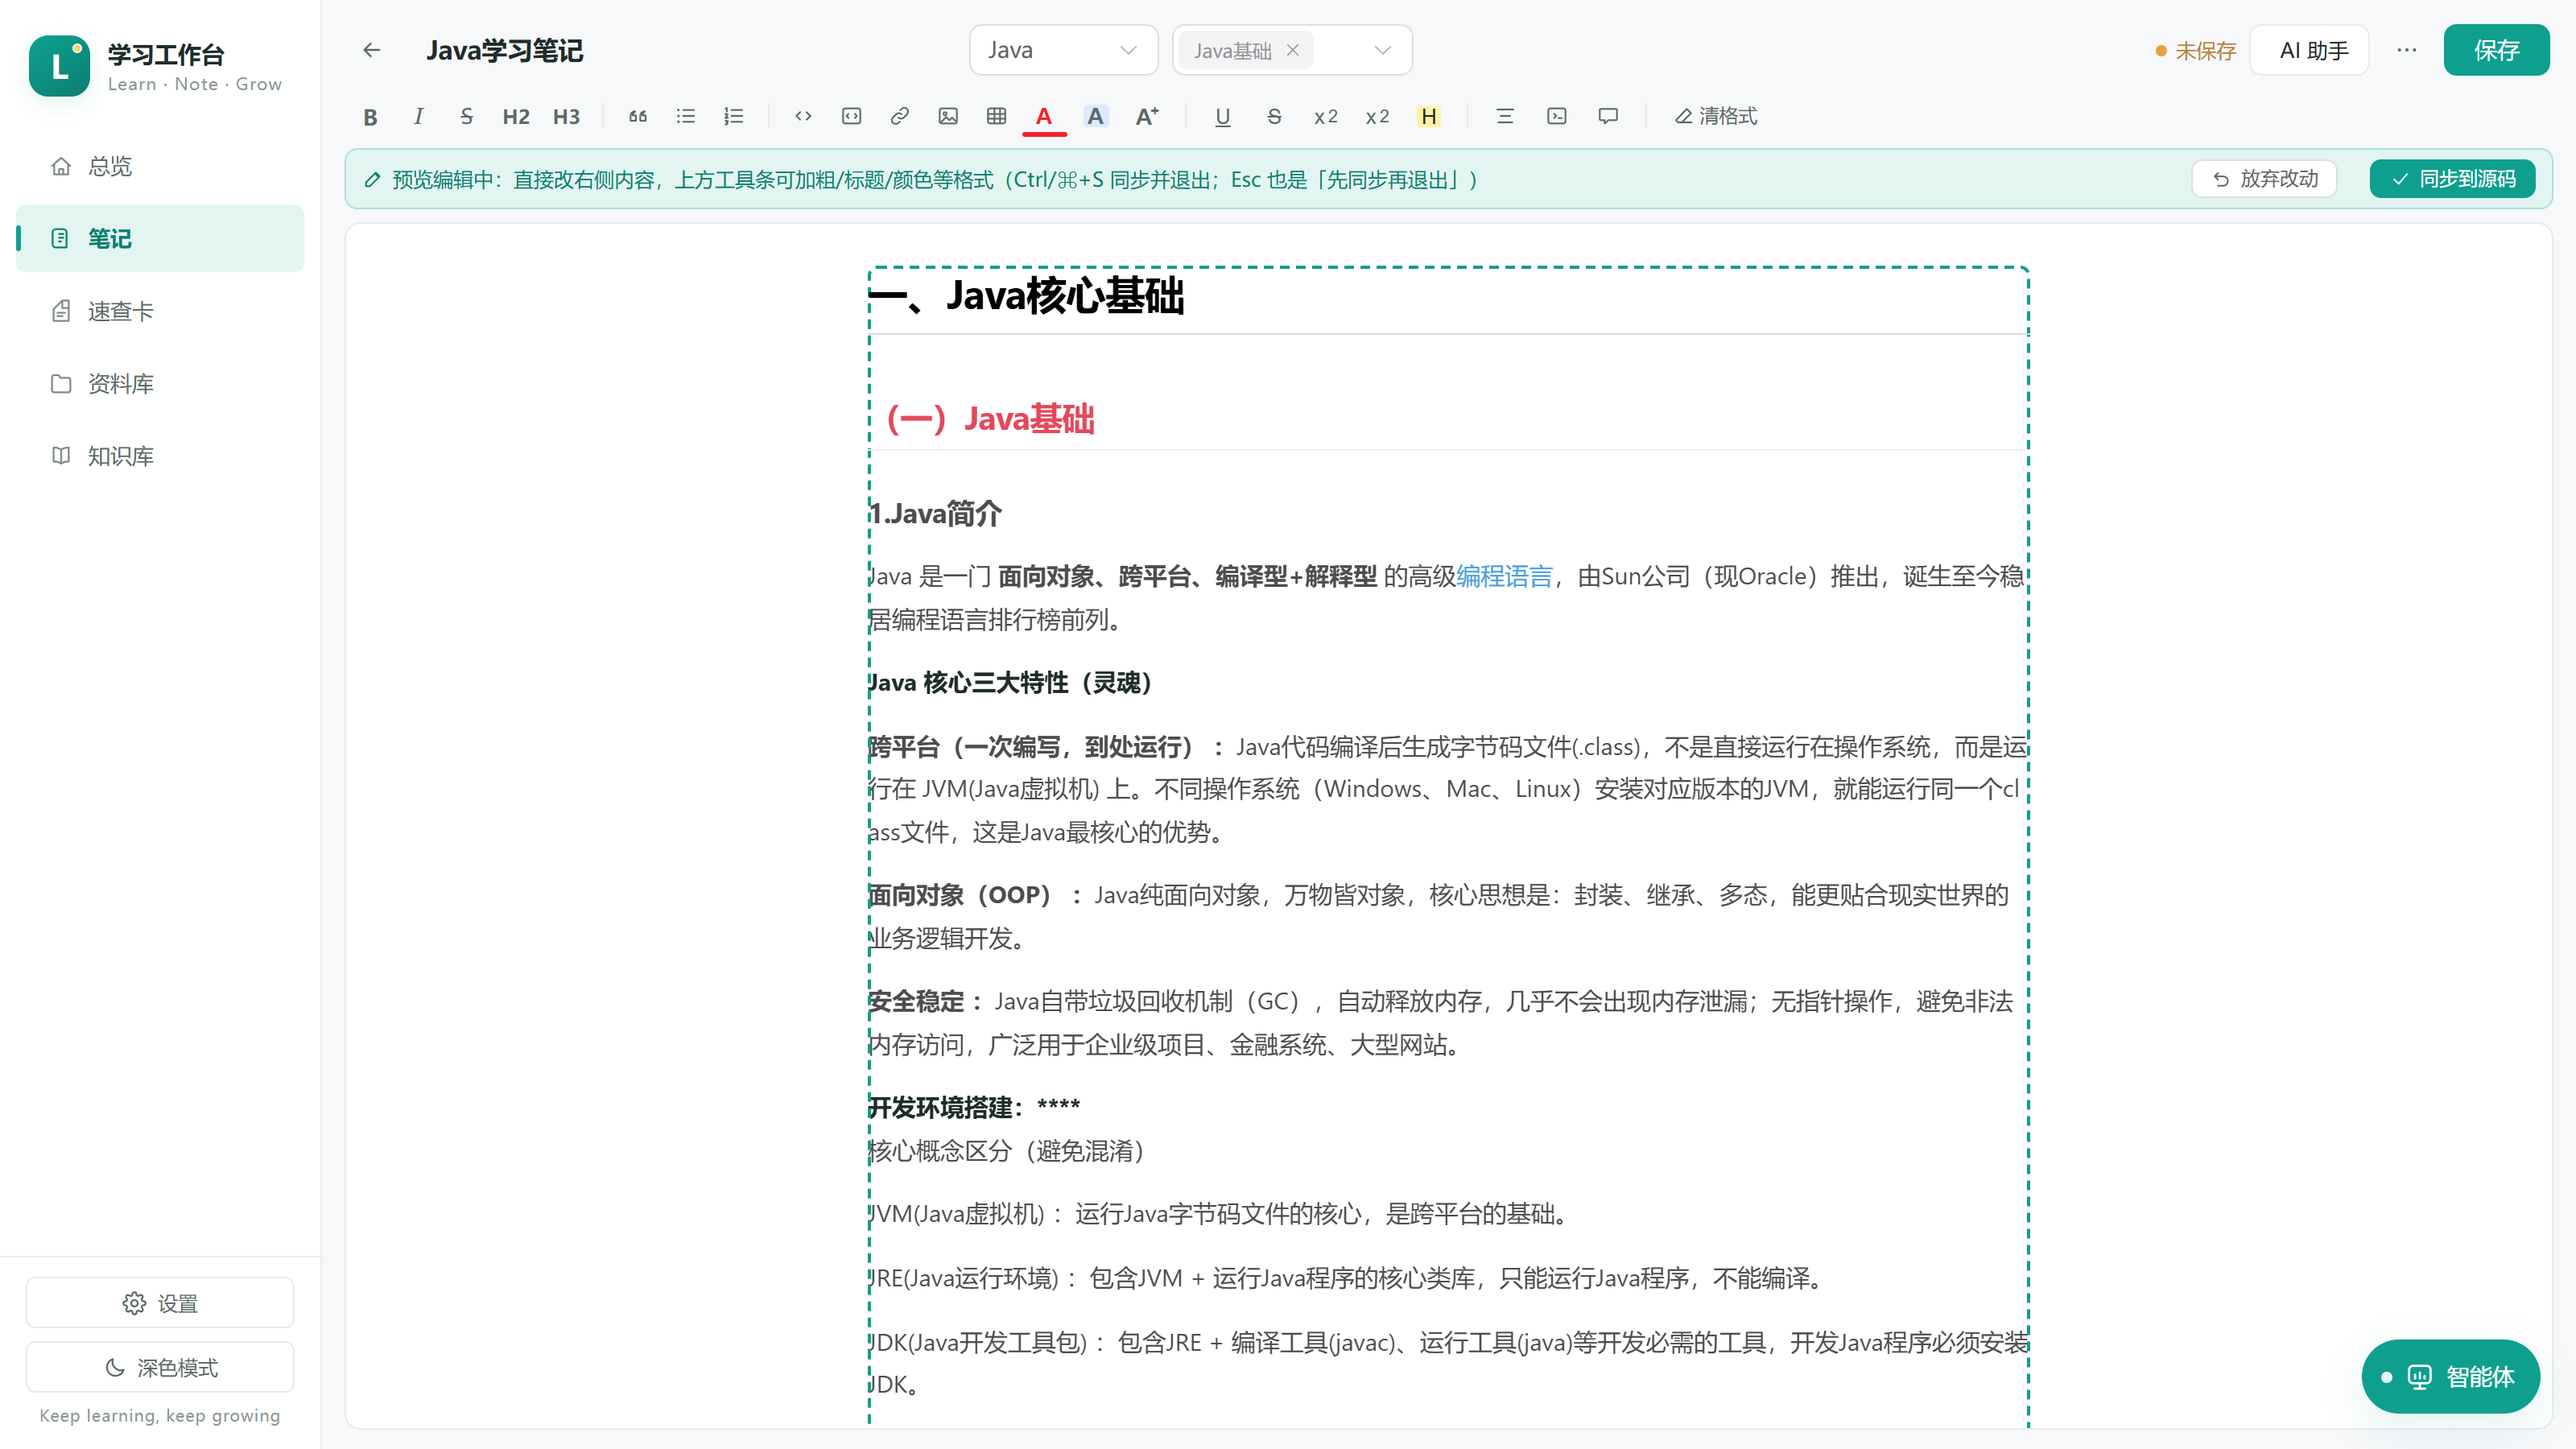
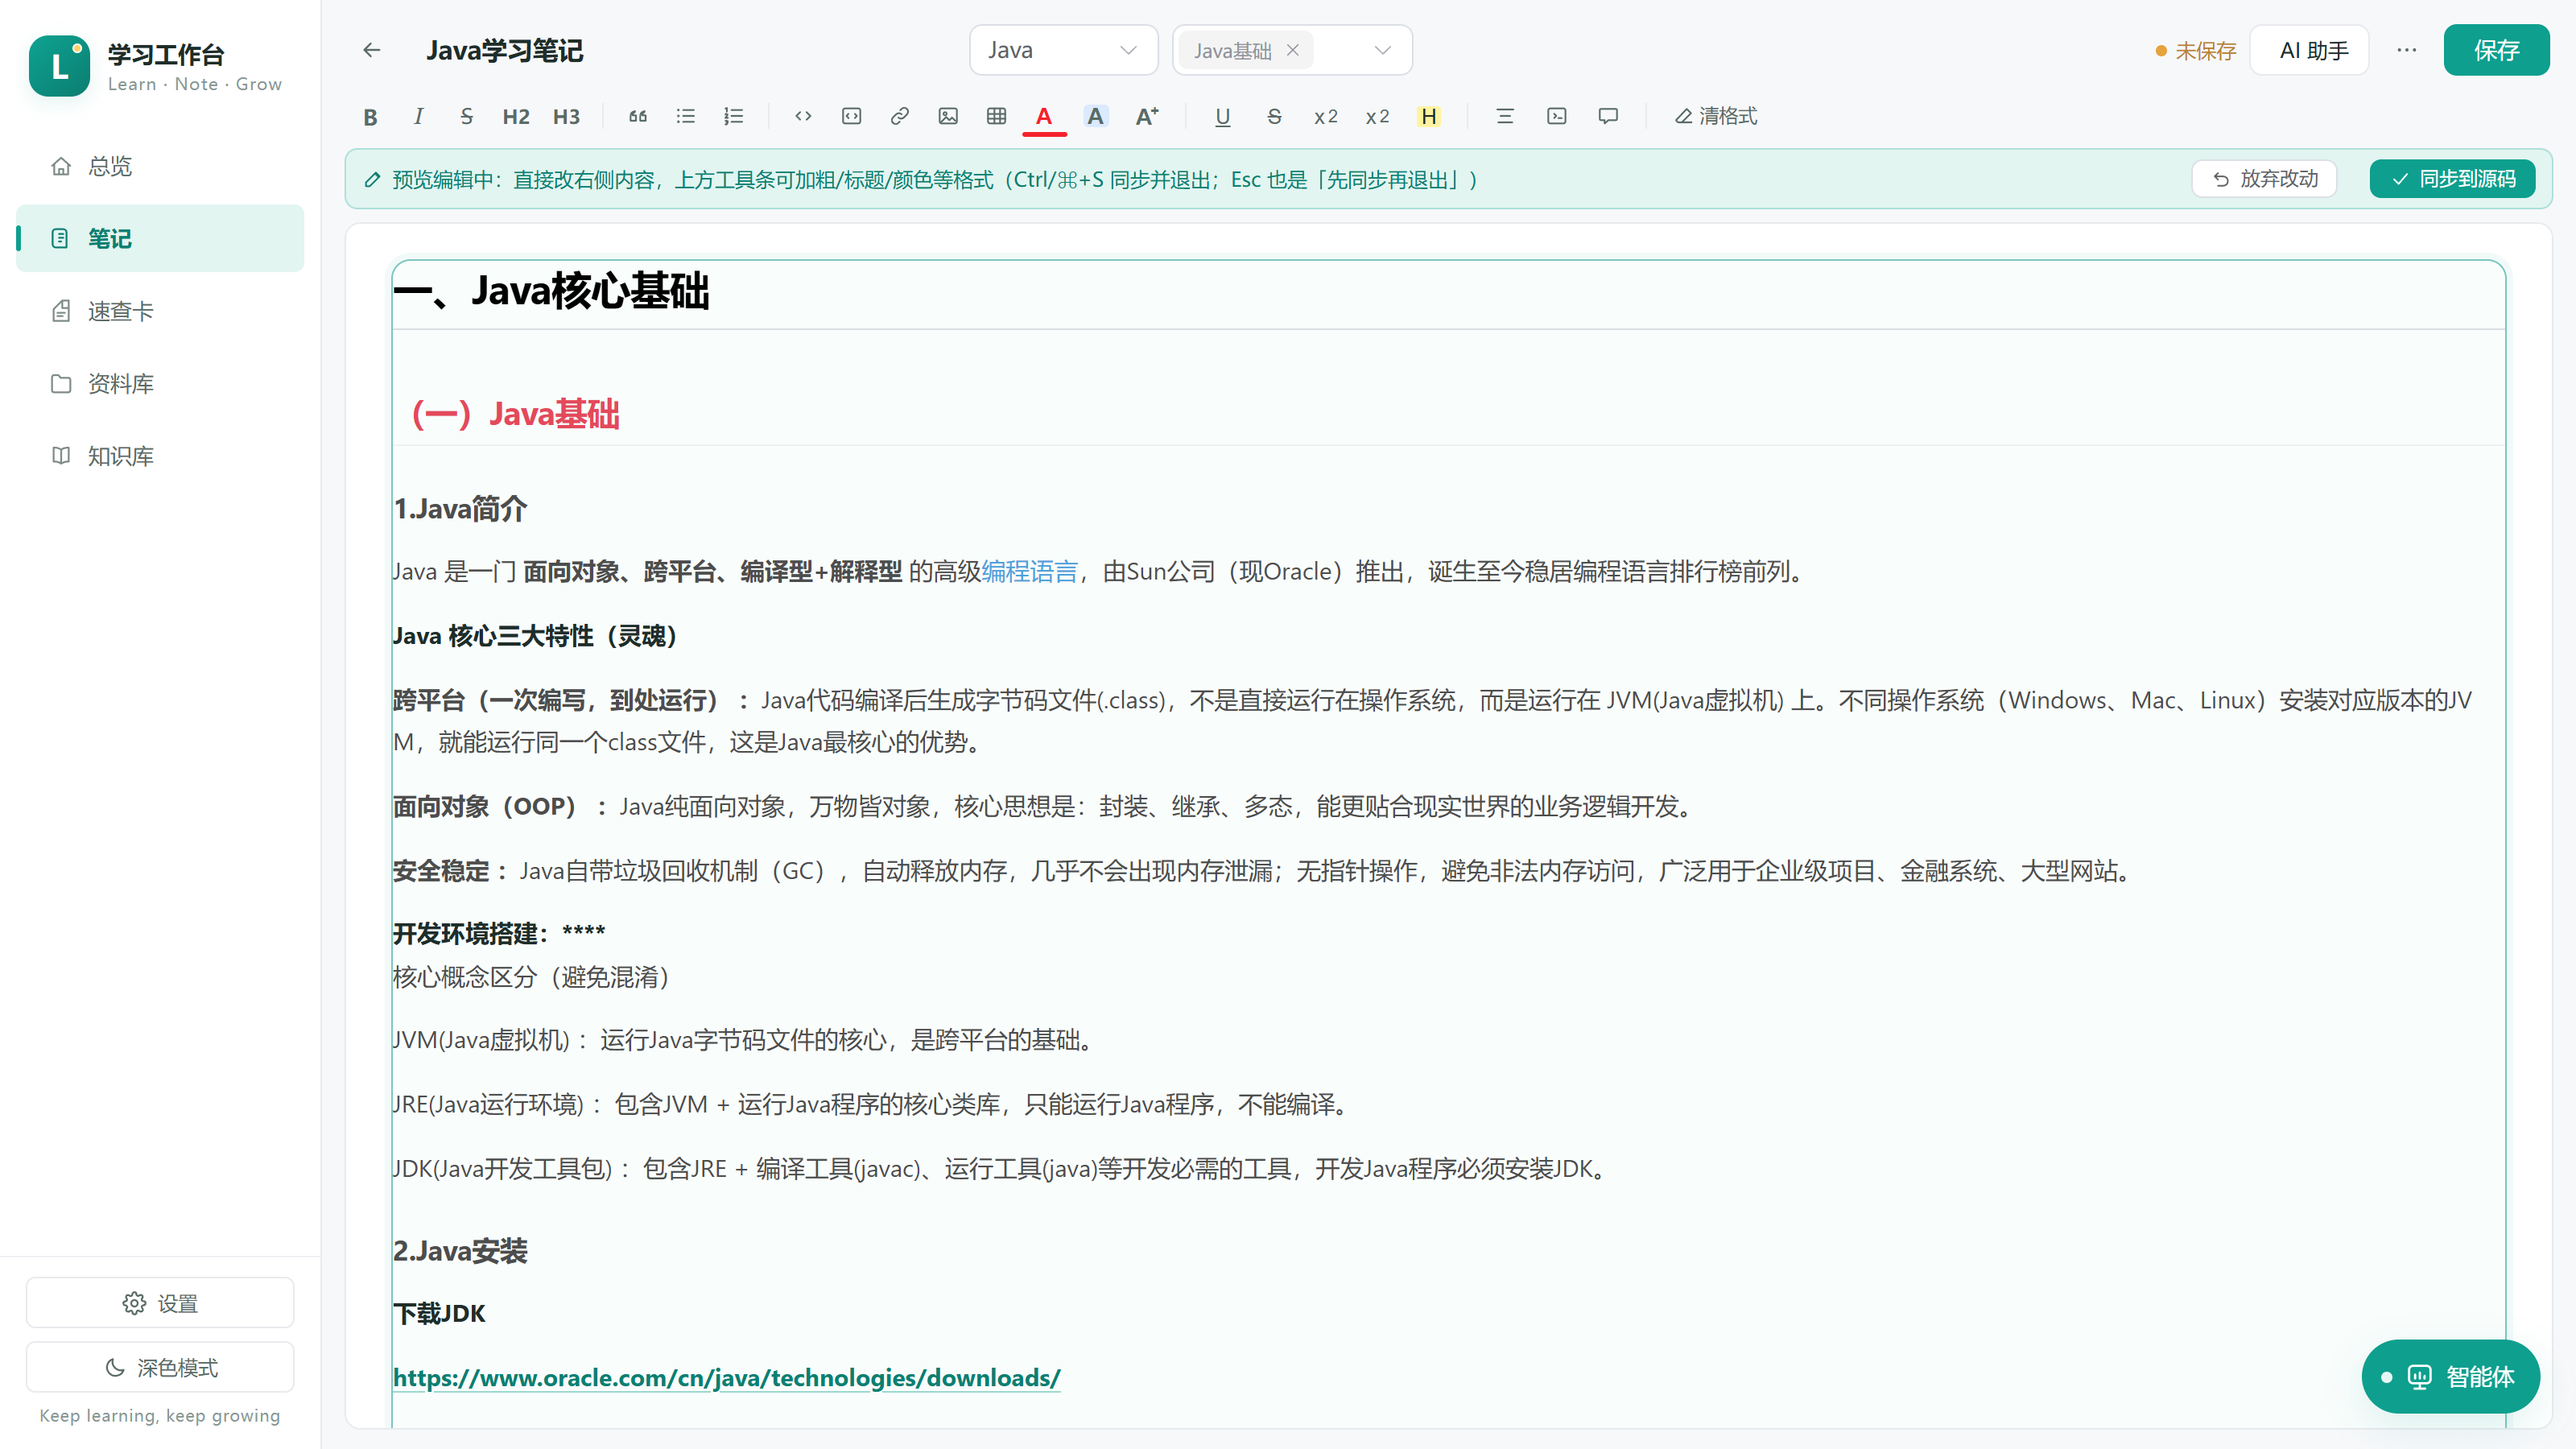
style: 预览编辑框体放大并升级为精致「编辑画布」
- 预览编辑态放开 790px 阅读限宽（.editor-wrap.is-preview-editing .pv-inner → max-width:100%），
  可编辑框从 722px 扩到约 1154px（占满预览栏），大屏不再两侧大片留白
- 编辑框视觉：2px 虚线 → 1px 品牌柔边 + 极淡品牌底 + 4px 外发光 + 12px 圆角，focus/hover 分级强调
- 双写 .lh-preview-editing 类名压过 .md-editor-preview.md-editor-preview 的 background:transparent（特异性坑）
- 普通预览/阅读仍保持 790px 黄金宽度，不受影响

验证：editui 25 / ondemand 28 / previewformat 9 / rich 16 全绿；深色模式计算样式核对；dist 已同步

diff --git a/frontend/src/views/NoteEdit.vue b/frontend/src/views/NoteEdit.vue
@@ -1359,6 +1359,11 @@ html.dark .pane-editor :deep(.md-editor) {
   margin: 0 auto;
   padding: 26px 34px 48px;
 }
+/* 预览编辑：编辑优先，放开阅读限宽占满预览栏，大屏不再两侧大片留白 */
+.editor-wrap.is-preview-editing .pv-inner {
+  max-width: 100%;
+  padding: 22px 28px 48px;
+}
 .pane-preview :deep(.md-editor-preview.md-editor-preview) {
   background: transparent;
   line-height: 1.75;
@@ -1377,16 +1382,24 @@ html.dark .pane-editor :deep(.md-editor) {
   margin-top: 0;
 }
 
-/* 预览区可编辑时的视觉提示 */
-.pane-preview :deep(.lh-preview-editing) {
-  outline: 2px dashed var(--app-brand);
-  outline-offset: -2px;
-  outline-position: inside;
-  border-radius: 6px;
+/* 预览区可编辑：精致「编辑画布」——柔边 + 极淡品牌底 + 外发光，替代生硬虚线。
+   注意 .md-editor-preview.md-editor-preview 已声明 background:transparent（更高特异性），
+   故这里双写 .lh-preview-editing 类名压回去。 */
+.pane-preview :deep(.md-editor-preview.lh-preview-editing.lh-preview-editing) {
+  outline: none;
+  border: 1px solid color-mix(in srgb, var(--app-brand) 30%, var(--app-border));
+  background: color-mix(in srgb, var(--app-brand) 2.5%, var(--app-card));
+  border-radius: 12px;
+  box-shadow: 0 0 0 4px color-mix(in srgb, var(--app-brand) 6%, transparent);
   cursor: text;
+  transition: border-color var(--dur-fast) ease, box-shadow var(--dur-fast) ease;
 }
-.pane-preview :deep(.lh-preview-editing:focus) {
-  outline-style: solid;
+.pane-preview :deep(.md-editor-preview.lh-preview-editing.lh-preview-editing:hover) {
+  border-color: color-mix(in srgb, var(--app-brand) 50%, var(--app-border));
+}
+.pane-preview :deep(.md-editor-preview.lh-preview-editing.lh-preview-editing:focus) {
+  border-color: var(--app-brand);
+  box-shadow: 0 0 0 4px color-mix(in srgb, var(--app-brand) 14%, transparent);
 }
 
 /* ================= 大纲栏 ================= */
